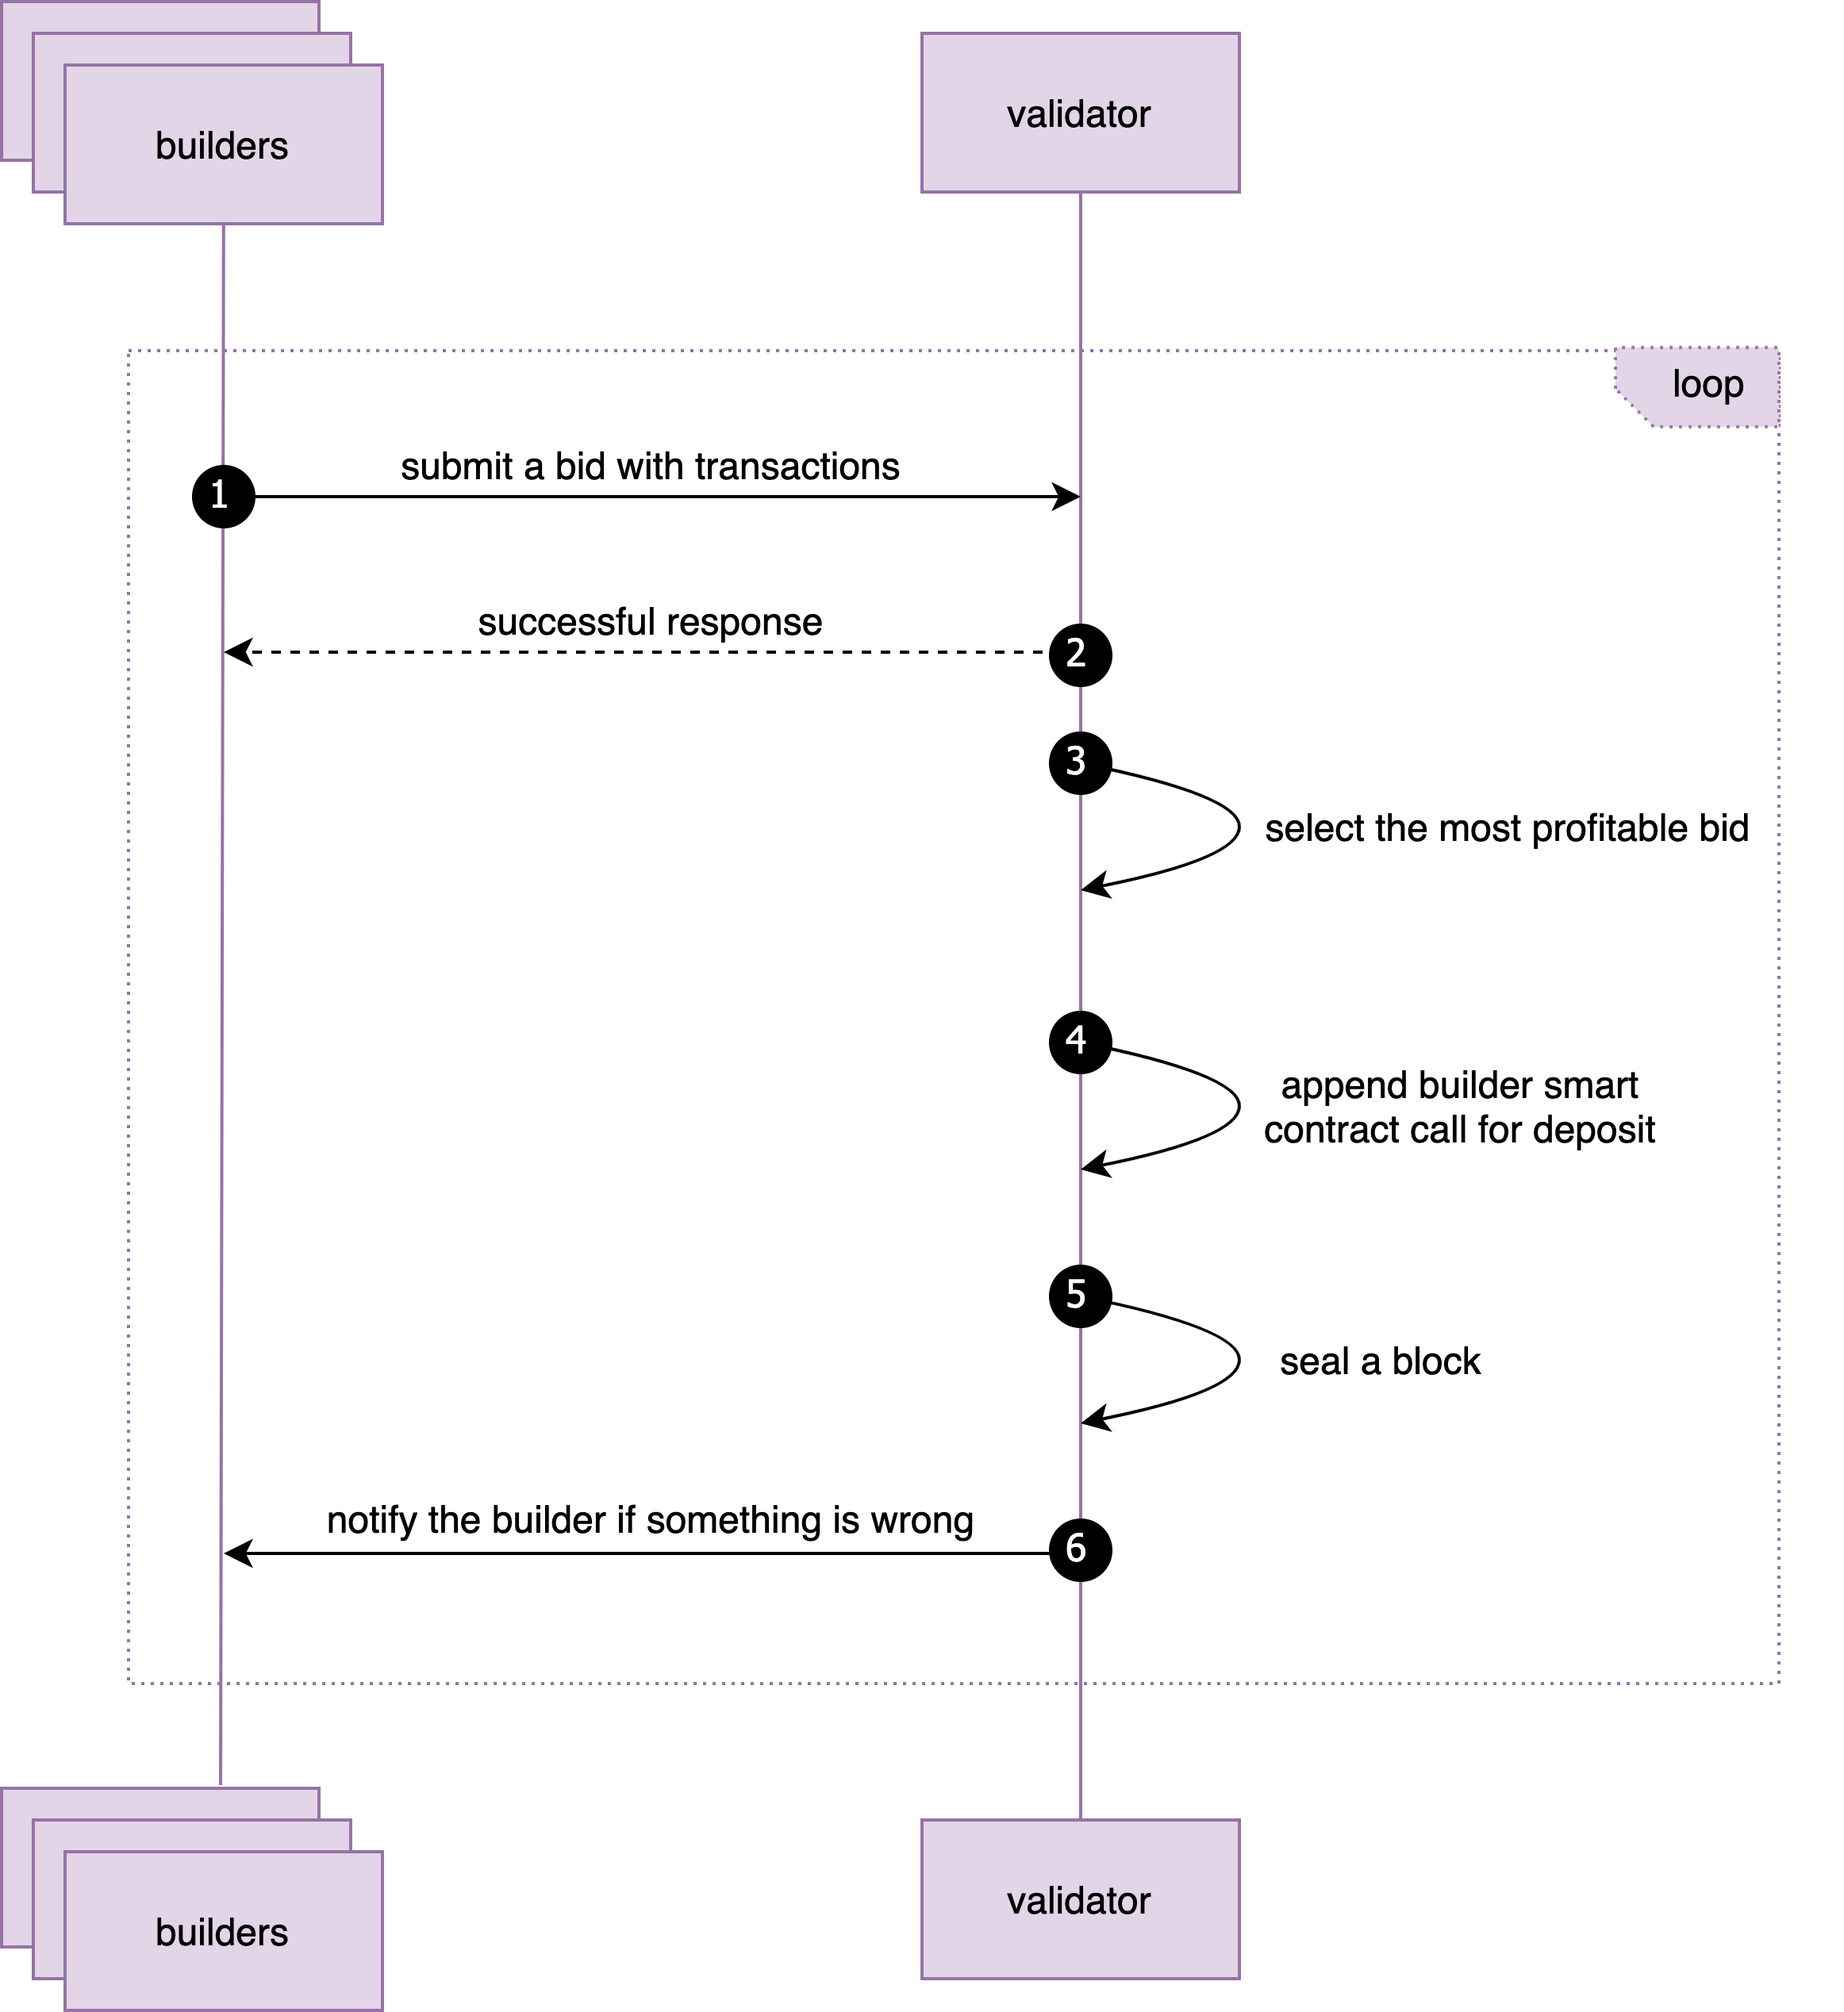
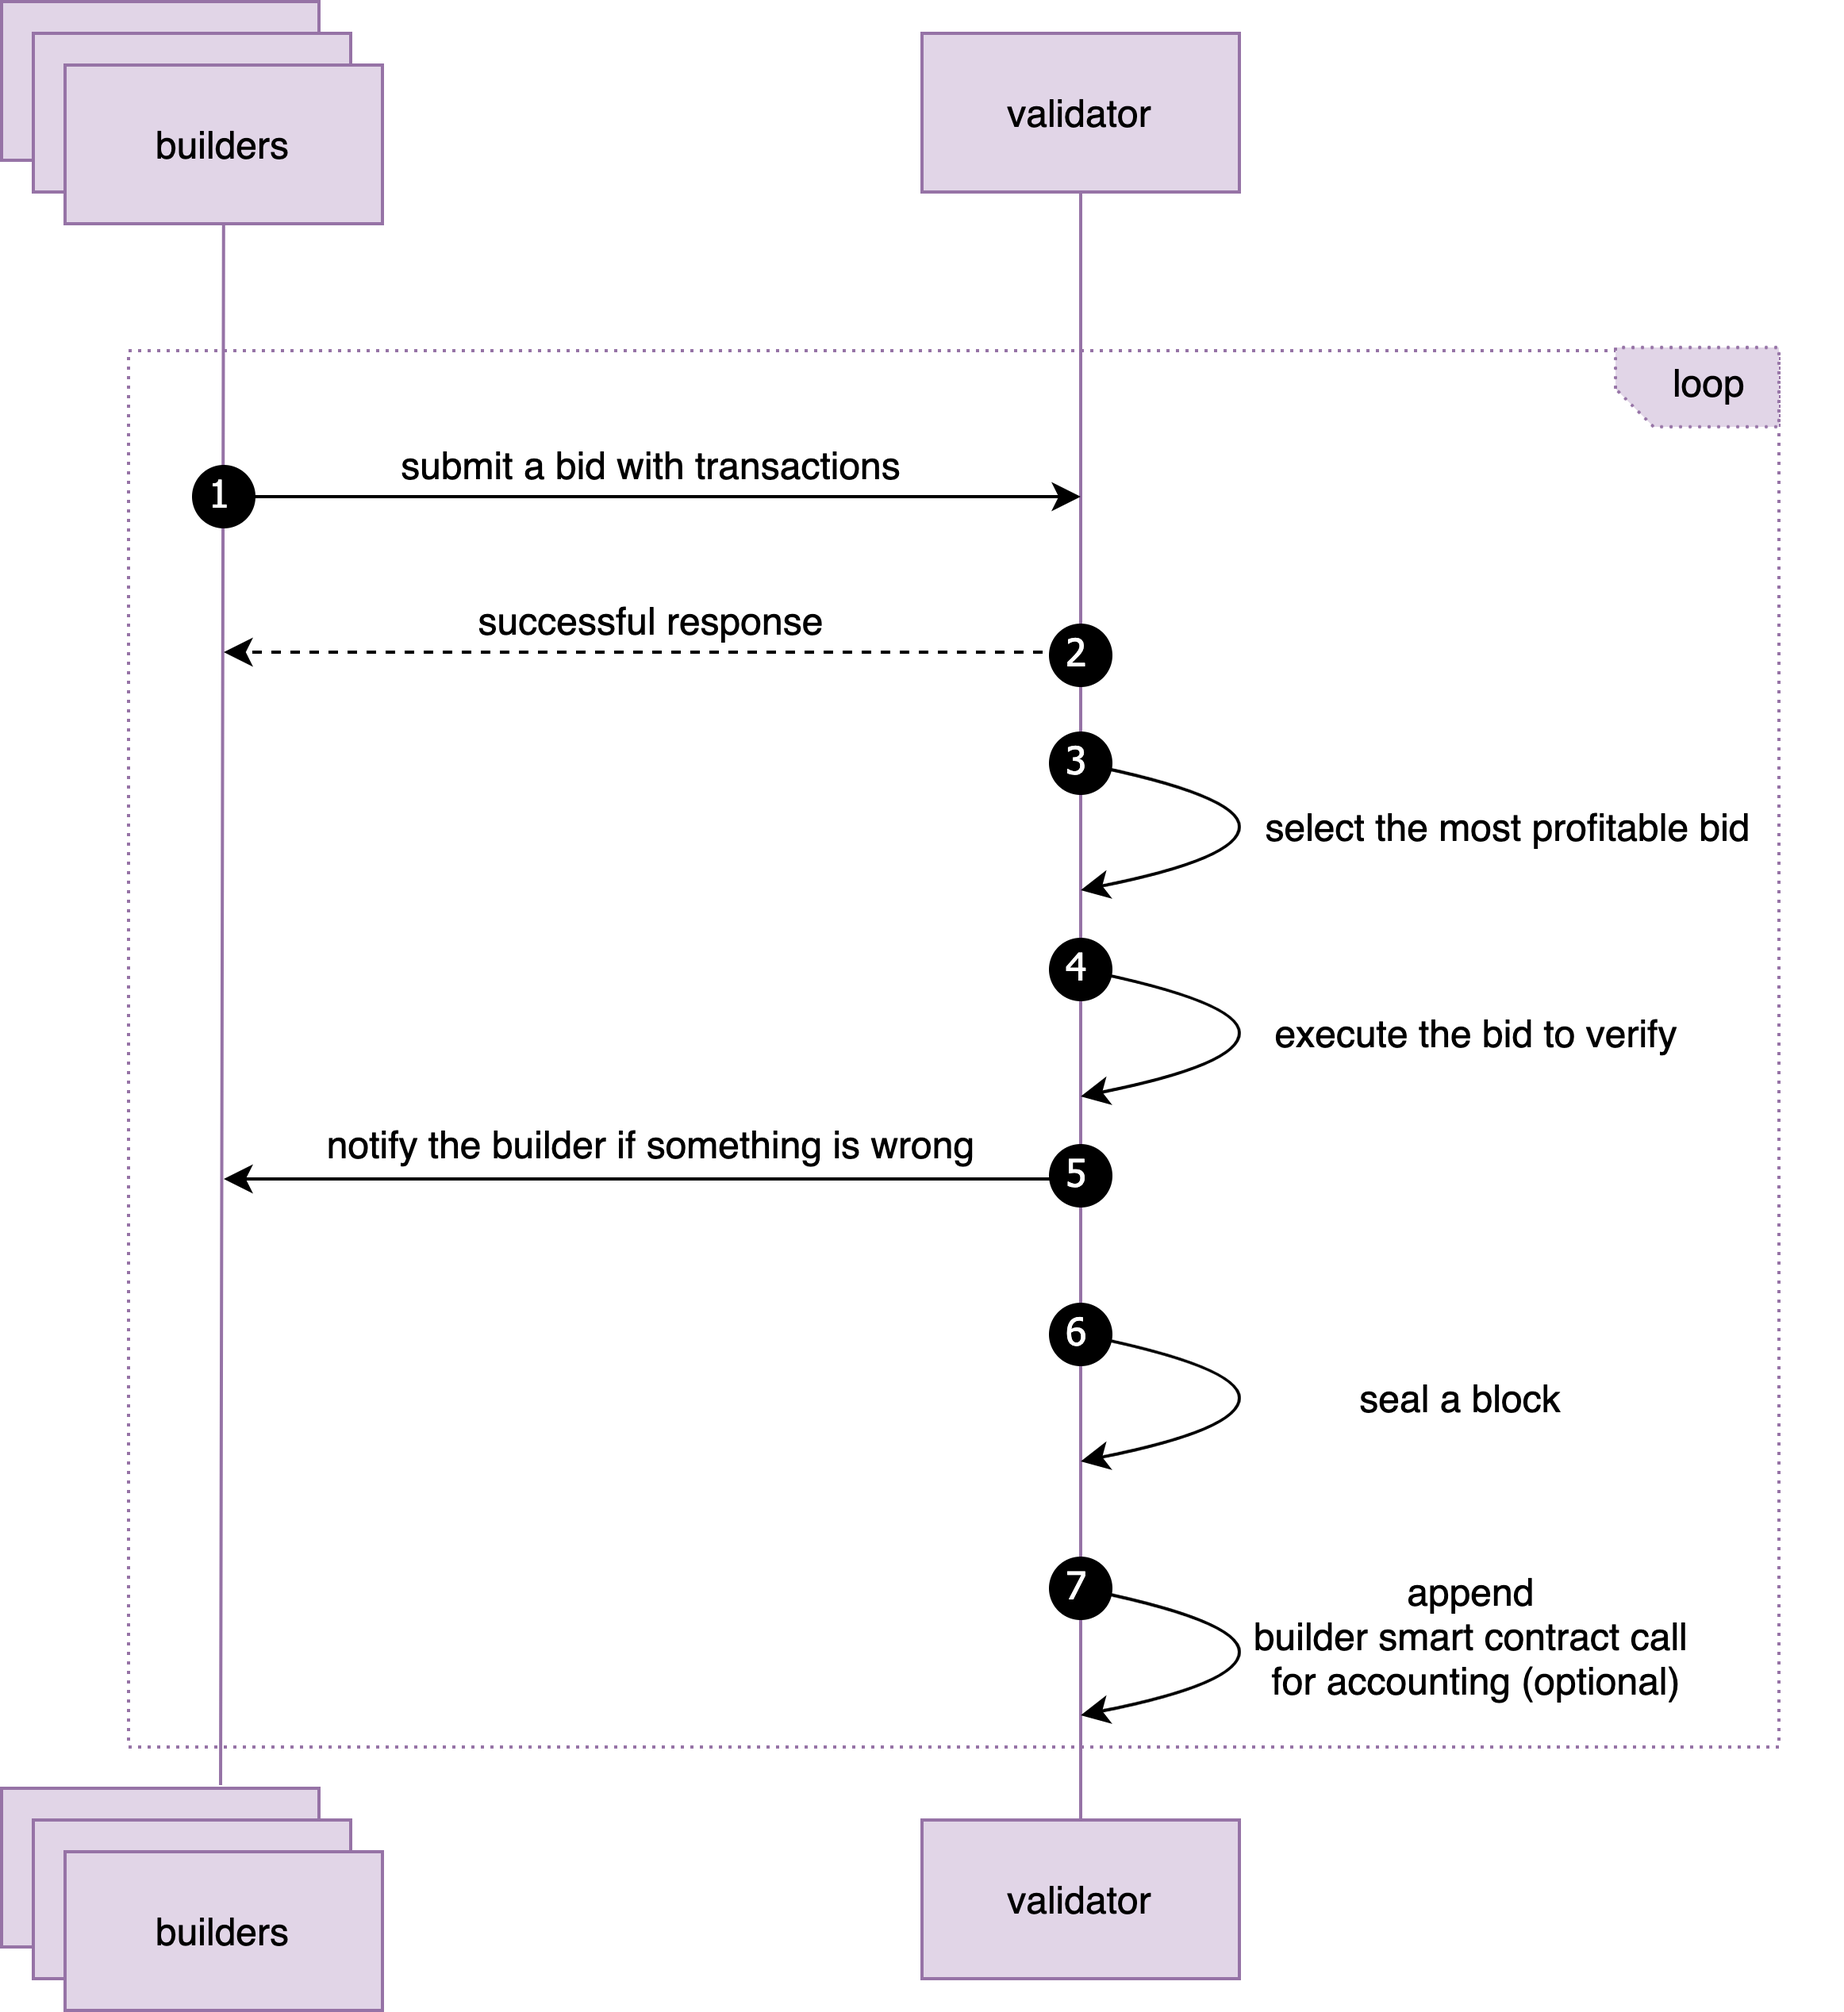
update content

diff --git a/BEPs/BEP322.md b/BEPs/BEP322.md
@@ -16,7 +16,8 @@
         - [3.2 Workflow](#32-workflow)
         - [3.3 Payment & Economic Considerations](#33-payment--economic-considerations)
         - [3.4 APIs](#34-apis)
-    - [4. License](#4-license)
+    - [4. References](#4-references)
+    - [5. License](#5-license)
 
 ## 1. Summary
 
@@ -86,10 +87,15 @@ lead to different designs for these two networks.
 
 A setup phase is needed before builders submit transactions to validators:
 
-1) a validator will deploy a smart contract for builders to register. In the smart contract, the validator’s information
-   will be exposed (e.g., how to connect to a validator).
+1) a validator will deploy a smart contract (called as builder smart contract) for builders to register.
+   In the smart contract, the validator’s information will be exposed (e.g., how to connect to a validator).
 
 2) a builder will call the smart contract to register itself with builder wallet address and other information.
+
+To let builders know the smart contract address, a validator can put the information into BSC, i.e., adding the address
+into `Details` field when [creating/editing a validator](https://docs.bnbchain.org/docs/validator/create-val).
+Meanwhile, the registration interfaces are not included in this specification. However, [an example](#4-references)
+is presented to demonstrate this.
 
 ![workflow](./assets/bep-322/workflow_setup.png)
 
@@ -106,21 +112,23 @@ After setup, during each block production interval, the overall workflow for pro
 
 5) the builder should return the full transactions.
 
-6) the proposer will append a transaction to deposit builder fee to its builder smart contract.
+6) the proposer will execute the full transactions and verify the gas value.
 
-7) the proposer will seal a block using the transactions from the winning builder, if there is no profitable bid
+7) the proposer will notify the builder if something is wrong (e.g., timeout to retrieve transitions from the builder,
+   or the proposed block is invalid).
+
+8) the proposer will seal a block using the transactions from the winning builder, if there is no profitable bid
    compared to local or the transactions do not return in time, the proposer can still seal a block using local
    transactions.
 
-8) the proposer will notify the builder if something is wrong (e.g., timeout to retrieve transitions from the builder,
-   or the proposed block is invalid).
+9) the proposer will append a transaction to record builder fee to its builder smart contract. This step is optional.
 
 ![workflow](./assets/bep-322/workflow_2round.png)
 
-For step 1, a builder can also submit a bid with transactions, then at step 4 a proposer
+In BSC, the time for producing a block is only 3 seconds. To reduce the latency, the following option is also supported
+in this specification. For step 1, a builder can also submit a bid with transactions, then at step 4 a proposer
 does not need to ask for transactions and can send the receipt in an asynchronous way or
-even do not send it. This option is also supported in this specification, as illustrated
-as the following figure.
+even do not send it.
 
 ![workflow](./assets/bep-322/workflow_1round.png)
 
@@ -146,7 +154,7 @@ Builder Specification here for the readers who are familiar with it.
   transfer (for fee to validators). In BSC, the coinbase reward will
   be transferred to the system contract for later distribution to
   all delegators. A different way is proposed in this proposal; a
-  validator needs to append a transaction to deposit builder fee to
+  validator needs to append a transaction to record builder fee to
   its builder smart contract. It will be further discussed in the later section.
 
 #### 3.2.2 Edge Cases
@@ -205,8 +213,8 @@ be considered.
   the builder.
 
 For the payment between builders and validators, when a validator accepts
-a bid it needs to append one deposit transaction, in which the builder
-fee will be deposited. To support this transaction, the following should be satisfied:
+a bid, it needs to append one accounting transaction to record the builder fee.
+To support this transaction, the following should be satisfied:
 
 * the gas price of the transaction should be zero. Then a validator does not need to pay any gas for it.
 
@@ -214,9 +222,10 @@ fee will be deposited. To support this transaction, the following should be sati
 
 * the transaction should be reverted if there is any reorg.
 
-After deposit, a builder can claim its income from the contract without any interaction with the validator.
+After accounting, a builder can claim its income from the contract without any interaction with the validator.
 
-If a validator does not append the deposit transaction, a builder can still use the receipt (with validator’s signature)
+If a validator does not append the accounting transaction, a builder can still use the receipt (with validator’s
+signature)
 to ask for settlement using other approaches. If a validator does not pay a builder on purpose (i.e., misbehavior),
 then the builder can expose evidence about the misbehavior.
 
@@ -440,24 +449,7 @@ HTTP status code is 200
 
 The following APIs should be implemented on the validator side or BSC clients.
 
-##### 3.4.2.1 Register Builder
-
-A smart contract should be implemented on the validator side.
-Then a builder can call the smart contract to register itself.
-The contract interface looks like this.
-
-```solidity
-// register to a validator
-    function register(string baseUrl) external;
-
-// unregister from a validator
-    function unregister() external;
-
-// returns the base url of the validator
-    function baseUrl() external returns (string);
-```
-
-##### 3.4.2.2 Bid Block
+##### 3.4.2.1 Bid Block
 
 This api is used by the builder to submit its bid for the current block
 production. In general, a proposer will use the `gas_fee` and
@@ -525,27 +517,29 @@ HTTP status code is 200
 </tr>
 </table>
 
-##### 3.4.2.3 Deposit Builder Fee
+##### 3.4.2.2 Record Builder Fee
 
-After accepting a bid, a validator needs to append one deposit transaction to
-deposit builder fee to its builder smart contract. Then builders can claim
+After accepting a bid, a validator needs to append one accounting transaction to
+record builder fee to its builder smart contract. Then builders can claim
 their fee from the smart contract.
 
 ```solidity
-// for a validator to deposit
-    function deposit(uint256 groupId, address builderAddress, uint256 fee) external payable;
-
-// for a builder to claim its income    
-    function claim() external;
+// for a validator to record builder fee
+    function record(uint256 blockHeight, address builderAddress, uint256 fee) external;
 ```
 
-For `deposit` transaction,
+For `record` transaction,
 
 * it can be only executed by coinbase address.
 * its gas price should be zero.
 * it will be reverted when there is blockchain reorg.
 
-## 4. License
+## 4. References
+
+* [BSC Builder Specs](https://github.com/bnb-chain/builder-specs)
+* [Example Smart Contracts](https://github.com/bnb-chain/builder-specs/examples)
+
+## 5. License
 
 The content is licensed under
 [CC0](https://creativecommons.org/publicdomain/zero/1.0/).
